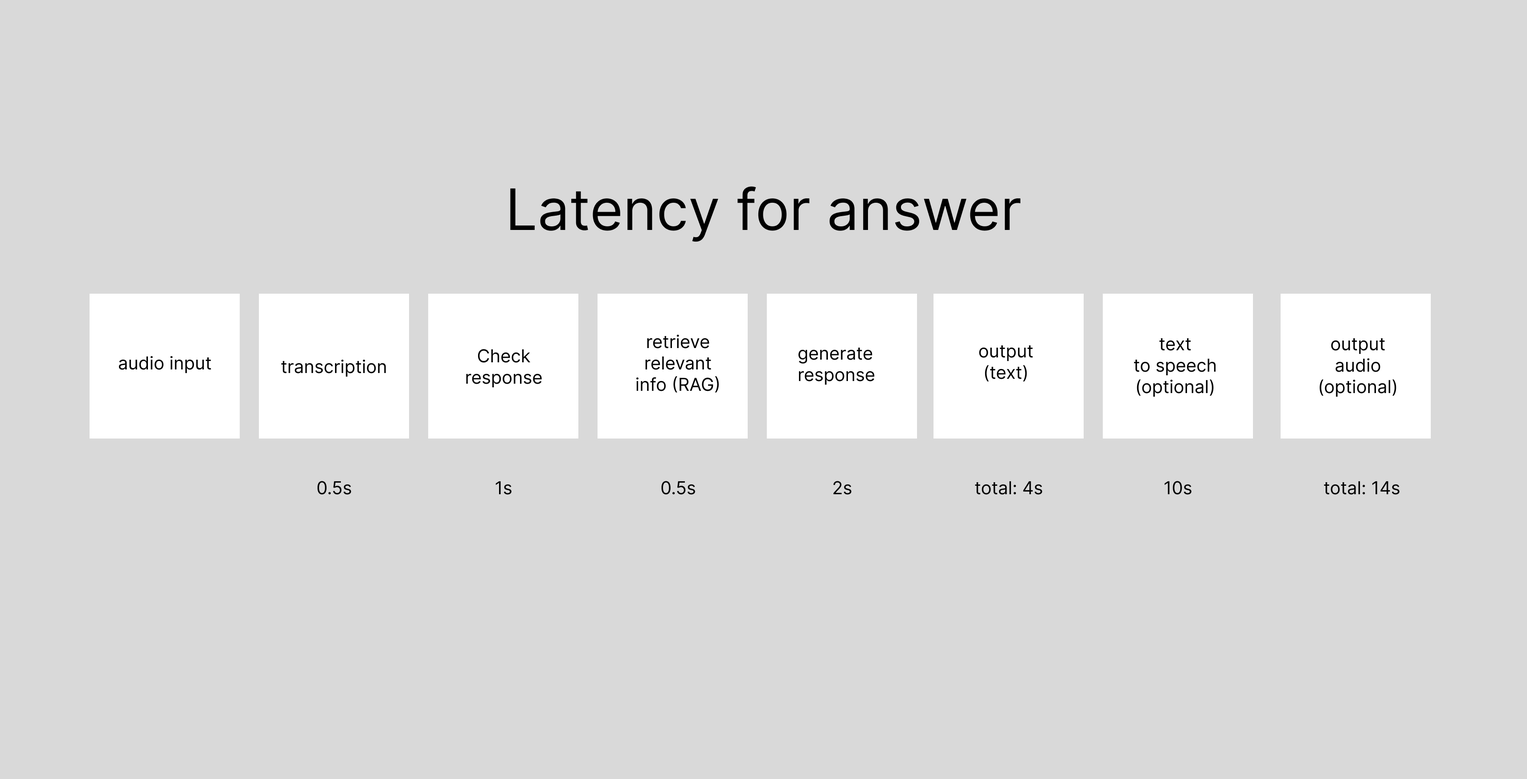
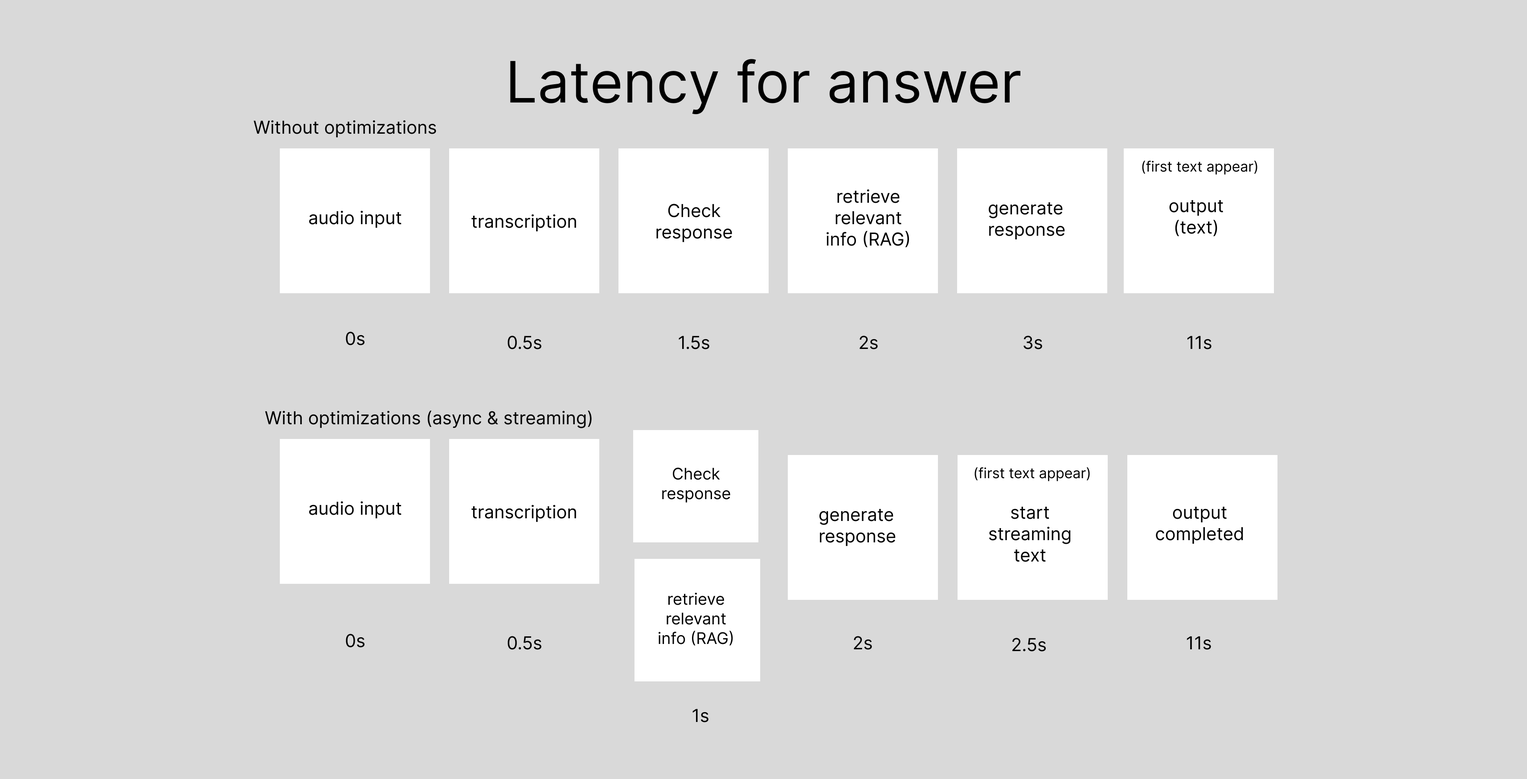
content update

diff --git a/src/content/nl/futurenow.js b/src/content/nl/futurenow.js
@@ -2,7 +2,7 @@ export default {
     id: "futurenow",
     projectTitle: "Future is Now",
     projectType: "Museum Exhibition",
-    introText: "Mijn tweede grote opdracht was voor een tentoonstelling in het Hong Kong Science Museum over de toekomst in transport, eten, en dagelijks leven. Hiervoor heb ik gewerkt aan een aantal applicaties met Vue, Three.js, Unity en ledstrips",
+    introText: "Een van mijn grote opdrachten was voor een tentoonstelling in het Hong Kong Science Museum over de toekomst in transport, eten, en dagelijks leven. Hiervoor heb ik gewerkt aan een aantal applicaties met Vue, Three.js, Unity en Phidgets",
     splashImages: [
         {type: 'image', src: '/images/futurenow/overview.jpg'},
         {type: 'image', src: '/images/futurenow/autonomous_driving.jpg'},
@@ -11,22 +11,22 @@ export default {
     content: [
         {
             title: "Fly with Betsy",
-            text: `De DC3 (Betsy) was een van de eerste commerciële vliegtuigen in de regio Hong Kong. Dit vliegtuig wordt tentoongesteld in het Hong Kong Science Museum. Hiervoor heb ik een three js applicatie gemaakt om meer te weten te komen over Betsy. Je kan rondkijken en hotspots inspecteren. Het vliegtuig model was best wel groot om te draaien in een webomgeving. Hierin heb ik wat extra optimalisatie gedaan om de framerate op 60 fps te houden.`,
+            text: `De DC3 (Betsy) was een van de eerste commerciële vliegtuigen in de regio Hong Kong. Dit vliegtuig wordt tentoongesteld in het Hong Kong Science Museum. Hiervoor heb ik een Three.js-applicatie gemaakt om meer te weten te komen over Betsy. Je kan rondkijken en hotspots inspecteren. Het vliegtuig model was best wel groot om te draaien in een webomgeving. Hierin heb ik extra geoptimaliseerd om de framerate op 60 fps te houden.`,
             media: {type: 'video', src:"/videos/futurenow_betsy.mp4"}
         },
         {
             title: "Internet of Things",
-            text: `In de toekomst zijn al onze apparaten verbonden en zullen ze taken uitvoeren voordat wij er aan denken. In deze applicatie, gemaakt met Vue.js, gaan bezoekers scenario’s spelen waarin slimme apparaten hen helpen. De interactive draait op één pc met 4 schermen in een soort kruis. Boven de schermen hangen ledjes die aangestuurd worden via nodejs en reageren op het gebruik van de app.`,
+            text: `In de toekomst zijn al onze apparaten verbonden en zullen ze taken uitvoeren voordat wij er aan denken. In deze applicatie, gemaakt met Vue.js, gaan bezoekers scenario’s spelen waarin slimme apparaten hen helpen. De interactive draait op één pc met 4 schermen in een soort kruis. Boven de schermen hangen ledjes die aangestuurd worden via Phidgets met Node.js en reageren op het gebruik van de app.`,
             media: {type: 'video', src:"/videos/futurenow_iot.mp4"}
         },
         {
             title: "Autonomous driving",
-            text: `De volledig zelfrijdende auto is er nog niet maar gaat binnenkort wel komen. In deze interactive gaan bezoekers de AI van een auto trainen via een quiz en daarna een reactie verkeerstest doen tegen de AI en een andere speler. Deze applicatie draait op twee kleine schermen met daarboven een breed scherm als voorruit. Het draait in één venster verspreid over meerdere schermen. Hierbij synchroniseren we de progressie met Pinia state manager van Vue.js.`,
+            text: `De volledig zelfrijdende auto is er nog niet maar gaat binnenkort wel komen. In deze interactive gaan bezoekers de AI van een auto trainen via een quiz, waarna ze strijden in een reactie verkeerstest tegen de AI en een andere speler. Deze applicatie draait op twee kleine schermen met daarboven een breed scherm als voorruit. Het draait in één venster verspreid over meerdere schermen. Hierbij synchroniseren we de progressie met Pinia state manager van Vue.js.`,
             media: {type: 'image', src: "/images/futurenow/driving.jpg" }
         },
         {
             title: "Chasing perfection",
-            text: `Ik heb voor chasing perfection een ondersteunende rol gehad, waarin ik hielp bij bepaalde onderdelen zoals UI en Testing. Deze interactive is een unity applicatie met een ai fitness die met je meekijkt via body tracking op een diepte camera.`,
+            text: `Ik heb voor chasing perfection een ondersteunende rol gehad, waarin ik hielp bij bepaalde onderdelen zoals UI en Testing. Deze interactive is een unity applicatie met een AI-fitnesscoach die met je meekijkt via body tracking op een diepte camera.`,
             media: {type: 'image', src: "/images/futurenow/posturetraining.jpg"}
         },
     ]

diff --git a/src/content/nl/lisboastories.js b/src/content/nl/lisboastories.js
@@ -2,7 +2,7 @@ export default {
     id: 'lisboaStories',
     projectTitle: "Lisboa stories",
     projectType: "Museum Exhibition",
-    introText: "Voor een tentoonstelling in de Lisboa hotels in Macau (China) ontwikkelde ik meerdere interactieve applicaties over de geschiedenis tussen de handel met Macau en de Portugezen. Ik werkte aan diverse applicaties, waaronder webapplicaties, een game en applicatie met computer vision -toepassing. Zie hieronder de verschillende onderdelen",
+    introText: "Voor een tentoonstelling in de Lisboa hotels in Macau (China) ontwikkelde ik meerdere interactieve applicaties over de geschiedenis van de handel tussen Macau en de Portugezen. Ik werkte aan diverse applicaties, waaronder webapplicaties, een game en applicatie met computer vision-toepassing. Zie hieronder de verschillende onderdelen",
     splashImages: [
         { type: 'image', src: '/images/lisboa/diary.jpg' },
         { type: 'image', src: '/images/lisboa/trading.jpg' },
@@ -10,18 +10,18 @@ export default {
     ],
     content: [
         {
-            title: "Harriet Low’s Dairy",
-            text: `Een van de interacties was een geprojecteerde video dagboek waar bezoekers doorheen konden bladeren. De interactie bestond uit een fysiek boek met markers in de hoeken, geplaatst onder een camera en projector. Een camera detecteerde met behulp van machine learning welke marker in beeld waren. En projecteerde de bijbehorende video. Tijdens development merkte ik dat het heel erg belangrijk is om een interface niet in python te draaien, dat leverd heel vertraging op in bijvoorbeeld een videoplayer.`,
+            title: "Harriet Low's Diary",
+            text: `Een van de interacties was een geprojecteerd videodagboek waar bezoekers doorheen konden bladeren. Deze interactie bestond uit een fysiek boek met markers in de hoeken, geplaatst onder een camera en projector. Een camera detecteerde met behulp van machine learning welke markers in beeld waren, en projecteerde vervolgens de bijbehorende video. Tijdens development merkte ik dat het heel erg belangrijk is om een interface niet in python te draaien, omdat dit aanzienlijk veel vertraging oplevert bijvoorbeeld in het afspelen van videos.`,
             media: { type: 'video', src: "/videos/lisboa-diary.mp4" }
         },
         {
             title: "Trading game",
-            text: `Trading game is een applicatie ontwikkeld met Vue.js, waarin je een handelsreis maakte in het oude China. Hier in ontwikkelde ik een minigame met Phaser waarbij je veilig naar je bestemming moet varen tussen piraten, rotsen en tyfoons. De grootste uitdaging was de performance. De applicatie draaide op 3 pc’s waar één pc een extra centrale kaart aanstuurde. De framerate van de game bepaalde de snelheid van de boot en dat moest gelijk zijn over alle pcs.`,
+            text: `Trading game is een applicatie ontwikkeld met Vue.js, waarin je een handelsreis maakte in het oude China. Hierin ontwikkelde ik een minigame met Phaser waarbij je veilig naar je bestemming moet varen tussen piraten, rotsen en tyfoons. De grootste uitdaging was de performance. De applicatie draaide op drie pc’s waar één pc een extra centrale kaart aanstuurde. De framerate van de game bepaalde de snelheid van de boot en moest daarom op alle pc’s gelijk zijn.`,
             media: { type: 'video', src: "/videos/lisboa-trading.mp4" }
         },
         {
-            title: "Façade:",
-            text: `In de tentoonstelling stond een geschaalde replica van de oude façade, waarop via projection mapping visuals werden geprojecteerd. Onder de replica bevond zich een touchscreen met een React applicatie. Hierin deden spelers een quiz waar ze de façade moest restoreren door de juiste figureren te herkennen. Bij een goed antwoord kregen ze een plekje op de façade.`,
+            title: "Façade",
+            text: `In de tentoonstelling stond een geschaalde replica van de oude façade, waarop via projection mapping visuals werden geprojecteerd. Onder de replica bevond zich een touchscreen met een React applicatie. Hierin mochten spelers een quiz doen waar ze de façade moesten restaureren door de juiste figuren te herkennen. figureren te herkennen. Bij een goed antwoord kregen ze een plekje op de façade.`,
             media: { type: 'video', src: "/videos/lisboa-facade.mp4" }
         },
     ]

diff --git a/src/content/nl/parleyStudio.js b/src/content/nl/parleyStudio.js
@@ -2,21 +2,21 @@ export default {
     id: 'parleyStudio',
     projectTitle: "Parley Studio",
     projectType: "AI tool",
-    introText: "Parley studio is een ai-platform om historische karakters tot leven te weken. In parley staat het narratief van het personage centraal en helpt Retrieved augmented generation tegen hallucinaties. Applicatie is gemaakt met Fast api en een Vue.js frontend.",
+    introText: "Parley studio is een AI-platform om historische karakters tot leven te brengen. In parley staat het narratief van het personage centraal en helpt Retrieval-Augmented Generation tegen hallucinaties. De applicatie is gemaakt met Fast api en een Vue.js frontend.",
     splashImages: [
         { type: 'image', src: '/images/parley/neel.png' },
-        { type: 'image', src: '/images/parley/neel.png' },
-        { type: 'image', src: '/images/parley/neel.png' },
+        { type: 'image', src: '/images/parley/chatscreen.jpg' },
+        { type: 'image', src: '/images/parley/lijsbeth.jpg' },
     ],
     content: [
         {
             title: "Nieuwe manier van storytelling",
             text: `Parley studio is een tool om ai personages tot leven te wekken. Ik zie AI niet als een doel op zich maar een nieuwe vorm van storytelling. Mijn doel was om een basis te bouwen om de taalmodellen voorspelbaarder en menselijker te maken.`,
-            media: { type: 'image', src: "/images/parley/guillaume.png" }
+            media: { type: 'video', src: "/videos/parley-guillaume.mp4" }
         },
         {
             title: "Sturen van de LLM",
-            text: `Het algemene probleem van taalmodellen is dat het snel terug in zijn behulpzame gedrag vallen om jouw vragen te beantwoorden. Een goed gesprek heeft een ritme en een doel. Hiervoor heb ik een hele orchestratie-engine ontwikkeld die de AI stuurt. De interactie voelt hierdoor als een lopend verhaal.`,
+            text: `Het algemene probleem van taalmodellen is dat ze snel terugvallen in hun behulpzame gedrag om jouw vragen te beantwoorden. Een goed gesprek heeft een ritme en een doel. Hiervoor heb ik een hele orchestratie-engine ontwikkeld die de AI stuurt. De interactie voelt hierdoor als een lopend verhaal.`,
             media: { type: 'image', src: "/images/parley/tree.png" }
         },
         {
@@ -26,12 +26,12 @@ export default {
         },
         {
             title: "Het perspectief",
-            text: `Wat een personage weet, bepaalt zijn identiteit. Ik heb een systeem gebouwd waarbij alle informatie wordt gefilterd door de ogen van het personage. Een soldaat uit de 15e eeuw bekijkt de wereld anders dan een gids in het nu.Daardoor kunnen we een consistente wereld creëren waarin een personage alleen vanuit zijn standpunt (Point of View) kan en mag vertellen.`,
+            text: `Wat een personage weet, bepaalt zijn identiteit. Ik heb een systeem gebouwd waarbij alle informatie wordt gefilterd door de ogen van het personage. Een soldaat uit de 15e eeuw bekijkt de wereld anders dan een gids in het nu. Daardoor kunnen we een consistente wereld creëren waarin een personage alleen vanuit zijn standpunt (Point of View) kan en mag vertellen.`,
             media: { type: 'image', src: "/images/parley/characters.png" }
         },
         {
             title: "Latency is de vijand",
-            text: `Op dit moment is het grootste probleem van deze ontwikkelingen latency. Voor een goede immersieve ervaring moet je haast vergeten dat je tegen een computer praat. Hiervoor heb ik een full-stack architectuur opgezet die de tijd tussen spreken en antwoord voelbaar moet verminderen. Door het streamen van de output een visuele veranderingen maak je het gevoel korter.`,
+            text: `Op dit moment is het grootste probleem van deze ontwikkelingen latency. Voor een goede immersieve ervaring moet je haast vergeten dat je tegen een computer praat. Hiervoor heb ik een full-stack architectuur opgezet die de tijd tussen spreken en antwoord voelbaar moet verminderen. Dit heb ik gedaan door middle van het streamen van de output en visuele veranderingen op het scherm.`,
             media: { type: 'image', src: "/images/parley/latency.jpg" }
         }
     ]

diff --git a/src/content/nl/festivalRecommender.js b/src/content/nl/festivalRecommender.js
@@ -1,24 +1,24 @@
 export default {
     projectTitle: "Festival recommender",
     projectType: "Machine learning",
-    introText: "Festival recommender beveelt jouw aan naar welke muziek festivals je moet gaan op basis van je luistergedrag op Spotify. Het systeem verzamelt data via de Spotify API en gebruikt machine learning om je muzieksmaak te vergelijken met de line-ups van festivals. De interface is ontwikkeld met React.",
+    introText: "Festival recommender beveelt jou aan naar welke muziek festivals je moet gaan op basis van je luistergedrag op Spotify. Het systeem verzamelt data via de Spotify API en gebruikt machine learning om je muzieksmaak te vergelijken met de line-ups van festivals. De interface is ontwikkeld met React.",
     splashImages: [
         { type: 'image', src: '/images/recommender/FR_mock_recommendation.jpg' },
     ],
     content: [
         {
             title: "Concept",
-            text: `Het hele jaar door zijn heel veel festivals door Nederland, maar naar welke moet je gaan. Op deze festivals kunnen bekenden artiesten spelen, maar ook minder bekende die je mogelijk wel heel leuk vind. Het is natuurlijk een hoop werk om ze allemaal uit te zoeken. Hiervoor heb ik een recommender system gemaakt die festivals aanbeveelt op basis van je meest beluisterde muziek.`,
+            text: `Het hele jaar door zijn er heel veel festivals in Nederland, maar naar welke moet je gaan? Op deze festivals kunnen bekenden artiesten spelen, maar ook minder bekende die je mogelijk wel heel leuk vindt. Het is natuurlijk een hoop werk om ze allemaal uit te zoeken. Hiervoor heb ik een recommender system gemaakt die festivals aanbeveelt op basis van je meest beluisterde muziek.`,
             media: { type: 'image', src: "/images/recommender/output2.jpg" }
         },
         {
             title: "Data verzamelen",
-            text: `De recommender system moet data over de muziek van de artiesten vergelijken met jouw meest beluisterde muziek. Hiervoor heb ik de Spotify API gebruikt om data over muziek te verzamelen. De Spotify API geeft je toegang tot metadata over tracks zoals danceability, valence en tempo. Deze waarde ga ik vergelijken met elkaar. Uiteindelijk kan ik alle verzamelde data gebruiken om een profiel te maken van jouw muziek en elk individueel festival.`,
+            text: `Het recommender system moet data over de muziek van de artiesten vergelijken met jouw meest beluisterde muziek. Hiervoor heb ik de Spotify API gebruikt om data over muziek te verzamelen. De Spotify API geeft je toegang tot metadata over tracks zoals danceability, valence en tempo. Uiteindelijk kan ik alle verzamelde data gebruiken om een profiel te maken van jouw muziek en elk individueel festival.`,
             media: { type: 'image', src: "/images/recommender/output.jpg" }
         },
         {
             title: "Development",
-            text: `Uiteindelijk wordt jouw muziekprofiel vergeleken met elk festival via de cosine similarity. Hieruit komt een getal tussen de nul en één. Hoe hoger dit getal is, hoe meer gelijk het festival is aan jouw muzieksmaak. Na mijn studie ben ik dit recommender system gaan verwerken in een React.js app. Deze applicatie gebruikt pyscript om direct in de browser python code te runnen. Daarnaast is het recommender system verder ontwikkeld door de muziek te clusteren zodat een gevarieerde muziek smaak niet gegeneraliseerd wordt.`,
+            text: `Uiteindelijk wordt je muziekprofiel met elk festival vergeleken met behulp van cosine similarity, wat resulteert in een score tussen nul en één. Hoe hoger deze score, hoe beter het festival aansluit bij je muzieksmaak. Na mijn studie ben ik dit recommender system gaan integreren in een React.js-applicatie. Deze applicatie maakt gebruik van PyScript om Python-code direct in de browser uit te voeren. Daarnaast is het systeem verder verbeterd door muziek te clusteren, zodat een gevarieerde muzieksmaak behouden blijft en niet wordt gegeneraliseerd.`,
             media: { type: 'image', src: "/images/recommender/FR_cosine.jpg" }
         }
     ]

diff --git a/src/content/nl/home.js b/src/content/nl/home.js
@@ -10,31 +10,31 @@ export default {
         {
             projectTitle: "Parley Studio",
             projectType: "AI tool",
-            projectText: "Parley studio is een ai-platform om historische karakters tot leven te weken. In parley staat het narratief van het personage centraal en helpt Retrieved augmented generation tegen hallucinaties. Applicatie is gemaakt met Fast api en een Vue.js frontend.",
+            projectText: "Parley studio is een AI-platform om historische karakters tot leven te brengen. In parley staat het narratief van het personage centraal en helpt Retrieval-Augmented Generation tegen hallucinaties. De applicatie is gemaakt met Fast api en een Vue.js frontend.",
             projectImage: '/images/parley/neel.png'
         },
         {
             projectTitle: "Future is Now",
             projectType: "Museum Exhibition",
-            projectText: "Mijn tweede grote opdracht was voor een tentoonstelling in het Hong Kong Science Museum over de toekomst in transport, eten, en dagelijks leven. Hiervoor heb ik gewerkt aan een aantal applicaties met Vue, Three.js, Unity en ledstrips.",
+            projectText: "Een van mijn grote opdrachten was voor een tentoonstelling in het Hong Kong Science Museum over de toekomst in transport, eten, en dagelijks leven. Hiervoor heb ik gewerkt aan een aantal applicaties met Vue, Three.js, Unity en Phidgets.",
             projectImage: '/images/futurenow/overview.jpg'
         },
         {
             projectTitle: "Festival recommender",
             projectType: "Machine learning",
-            projectText: "Festival recommender beveelt jouw aan naar welke muziek festivals je moet gaan op basis van je luistergedrag op Spotify. Het systeem verzamelt data via de Spotify API en gebruikt machine learning om je muzieksmaak te vergelijken met de line-ups van festivals. De interface is ontwikkeld met React.",
+            projectText: "Festival recommender beveelt jou aan naar welke muziek festivals je moet gaan op basis van je luistergedrag op Spotify. Het systeem verzamelt data via de Spotify API en gebruikt machine learning om je muzieksmaak te vergelijken met de line-ups van festivals. De interface is ontwikkeld met React.",
             projectImage: '/images/recommender/FR_mock_recommendation.jpg'
         },
         {
             projectTitle: "Lisboa stories",
             projectType: "Museum Exhibition",
-            projectText: "Voor een tentoonstelling in de Lisboa hotels in Macau (China) ontwikkelde ik meerdere interatieve applicaties over de geschiedenis van de handel met de portugezen. Ik werkte aan diverse applicaties, waaronder webapplicaties, een game en applicatie met computer vision -toepassing. Zie hieronder de verschillende onderdelen.",
+            projectText: "Voor een tentoonstelling in de Lisboa hotels in Macau (China) ontwikkelde ik meerdere interactieve applicaties over de geschiedenis van de handel tussen Macau en de Portugezen. Ik werkte aan diverse applicaties, waaronder webapplicaties, een game en applicatie met computer vision-toepassing. Zie hieronder de verschillende onderdelen",
             projectImage: '/images/lisboa/diary.jpg'
         },
         {
             projectTitle: "Peer pressure VR experience",
             projectType: "Serious game",
-            projectText: "Verdrinking is nog steeds een grote doodsoorzaak voor jonge mannen. In deze Vr Experience worden jonge mannen geconfronteerd met de gevaren van water door overschatting en groepsdruk.",
+            projectText: "Verdrinking is nog steeds een grote doodsoorzaak voor jonge mannen. In deze Vr Experience gemaakt in de Unreal Engine, worden jonge mannen geconfronteerd met de gevaren van water door overschatting en groepsdruk.",
             projectImage: '/images/SOTA/npcs.jpg'
         },
         {

diff --git a/src/content/en/lisboastories.js b/src/content/en/lisboastories.js
@@ -10,18 +10,18 @@ export default {
     ],
     content: [
         {
-            title: "Harriet Low’s Diary",
-            text: `One of the interactions was a projected video diary that visitors could browse through. The interaction consisted of a physical book with markers in the corners, placed under a camera and projector. A camera detected which markers were in view using machine learning and projected the corresponding video. During development, I noticed that it is very important not to run an interface in Python, as that causes a lot of delay in, for example, a video player.`,
+            title: "Harriet Low's Diary",
+            text: `One of the interactions was a projected video diary that visitors could browse. The interaction consisted of a physical book with markers in the corners, placed beneath a camera and projector. A camera detected which markers were in view using machine learning and projected the corresponding video. During development, I found that running an interface in Python can introduce significant delays, particularly in components such as video playback.`,
             media: { type: 'video', src: "/videos/lisboa-diary.mp4" }
         },
         {
             title: "Trading game",
-            text: `Trading game is an application developed with Vue.js, in which you make a trading journey in ancient China. In this, I developed a minigame with Phaser where you have to sail safely to your destination between pirates, rocks, and typhoons. The biggest challenge was the performance. The application ran on 3 PCs where one PC controlled an extra central map. The framerate of the game determined the speed of the boat and that had to be the same across all PCs.`,
+            text: `Trading game is an application developed with Vue.js, in which players embark on a trading journey through ancient China. As part of this project, I developed a minigame with Phaser where you have to sail safely to your destination between pirates, rocks, and typhoons. The biggest challenge was the performance. The application ran on 3 PCs where one PC controlled an extra central map. The game's framerate determined the speed of the boat and therefore had to be synchronized across all PCs.`,
             media: { type: 'video', src: "/videos/lisboa-trading.mp4" }
         },
         {
-            title: "Façade:",
-            text: `In the exhibition stood a scaled replica of the old façade, onto which visuals were projected via projection mapping. Beneath the replica was a touchscreen with a React application. In this, players played a quiz where they had to restore the façade by recognizing the correct figures. With a correct answer, they got a spot on the façade.`,
+            title: "Façade",
+            text: `In the exhibition featured scaled replica of the old façade, onto which visuals were projected using projection mapping. Beneath the model was a touchscreen running a React application, where visitors could play a quiz to restore the façade by identifying the correct figures. Each correct answer revealed a corresponding element on the façade.`,
             media: { type: 'video', src: "/videos/lisboa-facade.mp4" }
         },
     ]

diff --git a/src/content/nl/verhalenvangers.js b/src/content/nl/verhalenvangers.js
@@ -11,17 +11,17 @@ export default {
     content: [
         {
             title: "De tour",
-            text: `Het doel van de multimedia tour is om verschillende plekken in het museum te ontdekken. De bezoeker krijgt een ingezoomde foto van een plek. Zij moesten deze plek zien te vinden en daar een vraag beantwoorden. Daarna gingen ze in een interactie in om meer over die plek te weten te komen. Dit konden diverse interacties zijn als een puzzel maken, licht in de kerk aanzetten of een audio verhaal beluisteren.`,
+            text: `Het doel van de multimedia tour is om verschillende plekken in het museum te ontdekken. De bezoeker krijgt een ingezoomde foto van een plek. Zij moesten deze plek zien te vinden en daar een vraag beantwoorden. Daarna starten ze een interactie om meer over die plek te weten te komen. Dit konden diverse interacties zijn zoals een puzzel maken, licht in de kerk aanzetten of een audio verhaal beluisteren.`,
             media: { type: "image", src: "/images/verhalenvangers/church.jpg" }
         },
         {
             title: "Frontend",
-            text: `De applicatie is gebouwd in React Native. Al kende ik React al, React Native is nog wel een stapje verder om al die native functies te laten werken. Bovendien waren er naast diverse libraries om bepaalde interactives te laten werken zoals Three js of een gesture plugin, ook een hele logica in om de vertalingen te regelen voorzowel teksten, plaatjes, als videos. In dit project heb ik het meeste werk gehad aan de audio omdat de tablet aan de server liet weten als die klaar was. En dat gaf problemen als de audio niet speelde of vroegtijdige stopte.`,
+            text: `De applicatie is gebouwd in React Native. Al kende ik React al, React Native is nog wel een stapje verder om al die native functies te laten werken. Bovendien was er naast diverse libraries als Three js of een gesture plugin, ook een hele complexe logica nodig voor de vertalingen in teksten, plaatjes en videos. In dit project heb ik het meeste werk gehad aan de audio omdat de tablets aan de server lieten weten wanneer de audio klaar was met afspelen. En dat gaf problemen als de audio niet speelde of vroegtijdig stopte.`,
             media: { type: "image", src: "/images/verhalenvangers/screens.jpg" }
         },
         {
             title: "Backend",
-            text: `Al was mijn rol vooral de frontend, heb ik wel meegewerkt aan de backend. De tablets waren verbonden via socket io met een node server die heel de tour aanstuurde. Tijdens heel het project kampte we met slechte internet verbindingen in de kerk waarop heel het spel in de soep liep als een tablet de verbinding verloor. Dit hebben we opgelost met heel veel extra checks.`,
+            text: `Hoewel mijn rol vooral in de frontend lag, heb ik ook meegewerkt aan de backend. De tablets waren verbonden via socket io met een node server die heel de tour aanstuurde. Tijdens heel het project kampten we met slechte internet verbindingen in de kerk waarop het hele spel in de soep liep. Dit hebben we opgelost met heel veel extra checks in de server communicatie.`,
             media: { type: "video", src: "/videos/verhalenvangers-tablets.mp4" }
         },
     ]

diff --git a/src/content/en/verhalenvangers.js b/src/content/en/verhalenvangers.js
@@ -11,17 +11,17 @@ export default {
     content: [
         {
             title: "The tour",
-            text: `The goal of the multimedia tour is to discover different places in the museum. The visitor is given a zoomed-in photo of a location. They had to find this place and answer a question there. Afterward, they enter an interaction to learn more about that place. These could be various interactions such as solving a puzzle, turning on the lights in the church, or listening to an audio story.`,
+            text: `The goal of the multimedia tour is to discover different places in the museum. The visitor is given a zoomed-in photo of a location. They had to find this place and answer a question on that location. Afterward, they enter an interaction to learn more about that place. These could be various interactions such as solving a puzzle, turning on the lights in the church, or listening to an audio story.`,
             media: { type: "image", src: "/images/verhalenvangers/church.jpg" }
         },
         {
             title: "Frontend",
-            text: `The application is built in React Native. Although I already knew React, React Native is quite a step further to get all those native functions working. Moreover, besides various libraries to make certain interactives work such as Three.js or a gesture plugin, there was also a whole logic to manage the translations for texts, images, and videos. In this project, I spent the most work on the audio because the tablet had to let the server know when it was finished. And that caused problems if the audio didn't play or stopped prematurely.`,
+            text: `The application is built in React Native. Although I already familiar with React, React Native is quite a step further to get all those native functions working. Moreover, besides various libraries to make certain interactives work. such as Three.js or a gesture plugin, there was also a complex system to manage the translations for texts, images, and videos. In this project, I spent the most of my time on the audio because the tablet had to notify the server when the playback finished. This caused problems if the audio failed to play or stopped prematurely.`,
             media: { type: "image", src: "/images/verhalenvangers/screens.jpg" }
         },
         {
             title: "Backend",
-            text: `Even though my role was mainly the frontend, I also contributed to the backend. The tablets were connected via socket.io to a Node server that controlled the entire tour. Throughout the project, we struggled with poor internet connections in the church, which caused the entire game to crash if a tablet lost connection. We solved this with a lot of extra checks.`,
+            text: `Even though my role was mainly the frontend, I also contributed to the backend. The tablets were connected via socket.io to a Node server that controlled the entire tour. Throughout the project, we struggled with poor internet connections in the church, which caused the entire game to crash. We solved this with a lot of extra checks on server communications.`,
             media: { type: "video", src: "/videos/verhalenvangers-tablets.mp4" }
         },
     ]

diff --git a/src/content/en/futurenow.js b/src/content/en/futurenow.js
@@ -2,7 +2,7 @@ export default {
     id: "futurenow",
     projectTitle: "Future is Now",
     projectType: "Museum Exhibition",
-    introText: "My second major assignment was for an exhibition at the Hong Kong Science Museum about the future of transportation, food, and daily life. For this, I worked on a number of applications using Vue, Three.js, Unity, and LED strips.",
+    introText: "One of my bigger assignments was for an exhibition at the Hong Kong Science Museum about the future of transportation, food, and daily life. For this, I worked on a number of applications using Vue, Three.js, Unity, and Phidgets.",
     splashImages: [
         {type: 'image', src: '/images/futurenow/overview.jpg'},
         {type: 'image', src: '/images/futurenow/autonomous_driving.jpg'},
@@ -16,12 +16,12 @@ export default {
         },
         {
             title: "Internet of Things",
-            text: `In the future, all our devices will be connected and will perform tasks before we even think about them. In this application, made with Vue.js, visitors play scenarios in which smart devices help them. The interactive runs on one PC with 4 screens in a cross shape. Above the screens hang LEDs that are controlled via Node.js and react to the use of the app.`,
+            text: `In the future, all our devices will be connected and will perform tasks before we even think about them. In this application, made with Vue.js, visitors play scenarios in which smart devices help them. The interactive runs on one PC with 4 screens in a cross shape. Above the screens hang LEDs that are controlled via phidgets and Node.js. These lights reacts to the use of the app.`,
             media: {type: 'video', src:"/videos/futurenow_iot.mp4"}
         },
         {
             title: "Autonomous driving",
-            text: `The fully self-driving car is not here yet but will arrive soon. In this interactive, visitors train the AI of a car via a quiz and then do a reaction traffic test against the AI and another player. This application runs on two small screens with a wide screen above them acting as a windshield. It runs in one window spread over multiple screens. Here we synchronize the progression with the Pinia state manager of Vue.js.`,
+            text: `The fully self-driving car is not here yet but will arrive soon. In this interactive, visitors train the AI of a car via a quiz and then compete in a reaction traffic test against the AI and another player. This application runs on two small screens with a wide screen above them acting as a windshield. It runs in one window spread over multiple screens. Here we synchronize the progression with the Pinia state manager of Vue.js.`,
             media: {type: 'image', src: "/images/futurenow/driving.jpg" }
         },
         {

diff --git a/src/content/nl/vrGame.js b/src/content/nl/vrGame.js
@@ -9,17 +9,17 @@ export default {
     content: [
         {
             title: "Probleem",
-            text: `Verdrinken is nog een steeds een grote doodsoorzaak voor jonge mensen. Opvallend worden er naast jonge kinderen ook veel jonge mannen slachtoffer. Dit ontstaat vaak door groepsdruk rond deze leeftijd. Jonge mannen moeten aantonen dat ze niet bang en sterk zijn. Zij komen door die bewijsdrang makkelijk in gevaarlijke situaties.`,
+            text: `Verdrinken is nog steeds een grote doodsoorzaak voor jonge mensen. Opvallend is dat er naast jonge kinderen ook veel jonge mannen slachtoffer worden. Dit ontstaat vaak door groepsdruk rond deze leeftijd. Jonge mannen moeten aantonen dat ze niet bang en sterk zijn. Zij komen door die bewijsdrang makkelijk in gevaarlijke situaties.`,
             media: { type: 'image', src: "/images/SOTA/beach.jpg" }
         },
         {
             title: "Concept",
-            text: `In deze VR-experience worden jonge mannen uitgedaagd om naar een rots ver in zee te gaan. Via dialogen met non-player characters worden ze overgehaald, ondanks dat de afstand duidelijk groot is. Besluit de gebruiker mee te doen, dan blijkt al snel dat het inderdaad te ver is en verdrinkt`,
+            text: `In deze VR-experience worden jonge mannen uitgedaagd om naar een rots ver op zee te zwemmen. Via gesprekken met non-player characters worden ze overgehaald om de overduidelijk gevaarlijke afstand af te leggen. Wanneer de gebruiker het accepteerd wordt hij geconfronteerd met de gevolgen en verdrinkt hij.`,
             media: { type: 'image', src: "/images/SOTA/npcs.jpg" }
         },
         {
             title: "Development",
-            text: `De ervaring is ontwikkeld in Unreal Engine als onderdeel van een masteropdracht om met nieuwe technieken te werken. Het proces begon met het bouwen van de strandomgeving en het opzetten van een dialogensysteem. Op basis van gebruikerstesten zijn de dialogen verfijnt en zijn omgevingssignalen, zoals geluiden die vermoeidheid aangeven, verder verbeterd.`,
+            text: `De ervaring is ontwikkeld in Unreal Engine als onderdeel van een masteropdracht om met nieuwe technieken te werken. Het proces begon met het bouwen van de strandomgeving en het opzetten van een dialogensysteem. Op basis van gebruikerstesten zijn de dialogen verfijnd en zijn omgevingssignalen, zoals geluiden die vermoeidheid aangeven, verder verbeterd.`,
             media: { type: 'image', src: "/images/SOTA/dialog.jpg" }
         }
     ]

diff --git a/src/content/en/parleyStudio.js b/src/content/en/parleyStudio.js
@@ -5,14 +5,14 @@ export default {
     introText: "Parley studio is an AI platform to bring historical characters to life. In Parley, the character's narrative takes center stage and Retrieval-Augmented Generation helps prevent hallucinations. The application is built with Fast API and a Vue.js frontend.",
     splashImages: [
         { type: 'image', src: '/images/parley/neel.png' },
-        { type: 'image', src: '/images/parley/neel.png' },
-        { type: 'image', src: '/images/parley/neel.png' },
+        { type: 'image', src: '/images/parley/chatscreen.jpg' },
+        { type: 'image', src: '/images/parley/lijsbeth.jpg' },
     ],
     content: [
         {
             title: "New way of storytelling",
             text: `Parley studio is a tool to bring AI characters to life. I do not see AI as a goal in itself but as a new form of storytelling. My goal was to build a foundation to make the language models more predictable and human.`,
-            media: { type: 'image', src: "/images/parley/guillaume.png" }
+            media: { type: 'video', src: "/videos/parley-guillaume.mp4" }
         },
         {
             title: "Guiding the LLM",
@@ -31,7 +31,7 @@ export default {
         },
         {
             title: "Latency is the enemy",
-            text: `Currently, the biggest problem with these developments is latency. For a good immersive experience, you should almost forget that you are talking to a computer. For this, I set up a full-stack architecture that noticeably reduces the time between speaking and answering. By streaming the output to a visual change, you make the wait feel shorter.`,
+            text: `Currently, the biggest problem with these developments is latency. For a good immersive experience, you should almost forget that you are talking to a computer. For this, I set up a full-stack architecture that noticeably reduces the time between speaking and answering. By streaming the output and updating the visuals on the screen, the perceived wait is minimized.`,
             media: { type: 'image', src: "/images/parley/latency.jpg" }
         }
     ]

diff --git a/src/content/en/vrGame.js b/src/content/en/vrGame.js
@@ -9,12 +9,12 @@ export default {
     content: [
         {
             title: "Problem",
-            text: `Drowning is still a major cause of death among young people. Strikingly, besides young children, many young men also become victims. This often arises due to peer pressure around this age. Young men have to prove that they are not afraid and are strong. Because of this need to prove themselves, they easily end up in dangerous situations.`,
+            text: `Drowning is still a major cause of death among young people. Notably, in addition to young children, a significatn number of young men also become victims. This often arises due to peer pressure around this age. Young men have to prove that they are not afraid and are strong. As a result, they are more likely to take risks and end up in dangerous situations.`,
             media: { type: 'image', src: "/images/SOTA/beach.jpg" }
         },
         {
             title: "Concept",
-            text: `In this VR experience, young men are challenged to go to a rock far out in the sea. Through dialogues with non-player characters, they are persuaded, even though the distance is clearly great. If the user decides to participate, it soon turns out that it is indeed too far, and they drown.`,
+            text: `In this VR experience, young men are challenged to swim to a rock far out in the sea. Through conversations with non-player characters, they are persuaded to take on the challenge, even though the distance is clearly far way. If the user chooses to participate, it quickly becomes apparent that the distance is too great, ultimately leading to them drowning.`,
             media: { type: 'image', src: "/images/SOTA/npcs.jpg" }
         },
         {
